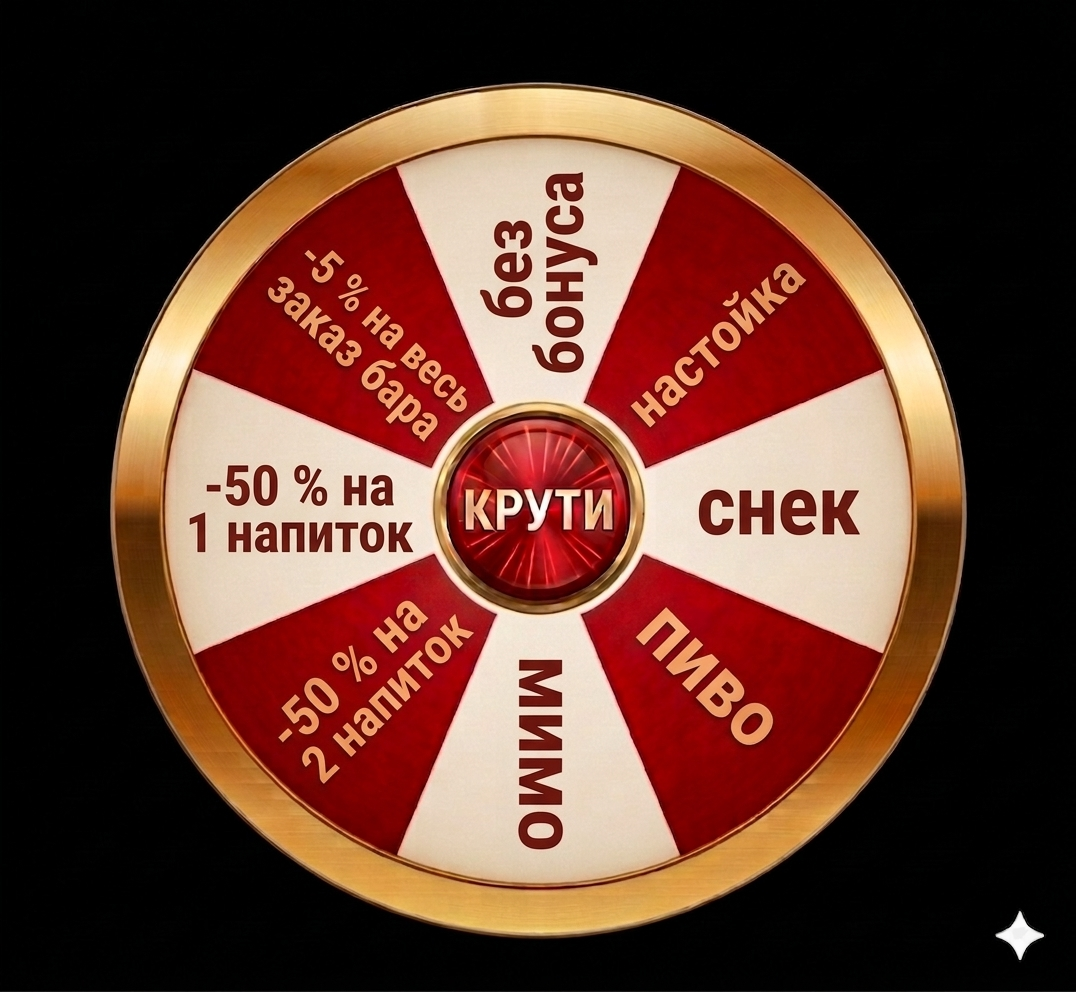
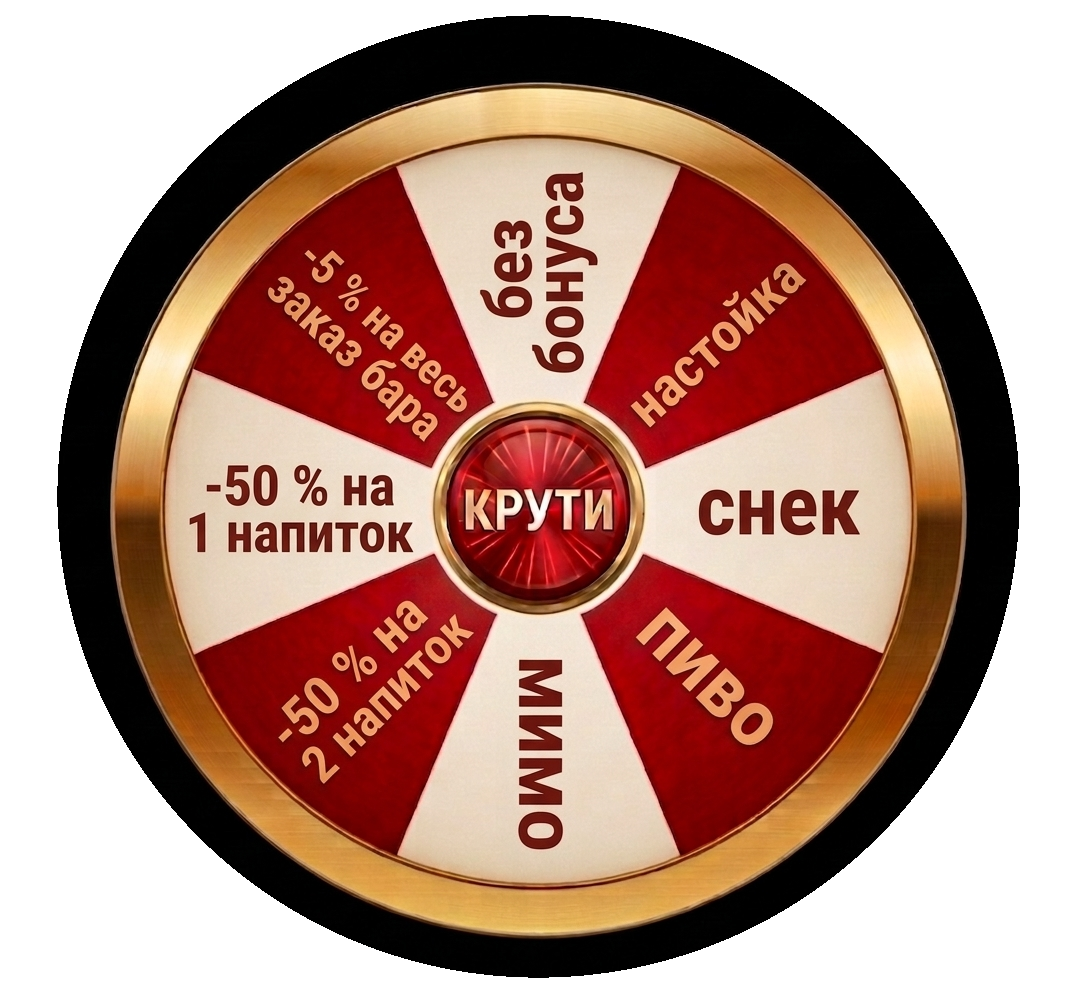
Remove faint square background around fortune wheel assets and FAB.
Mask wheel PNGs to the circle, drop semi-transparent FAB backdrop and popup wheel plate.

diff --git a/src/components/LuckyWheelButton.tsx b/src/components/LuckyWheelButton.tsx
@@ -35,7 +35,6 @@ export function LuckyWheelButton({ onClick, hasBonus, remainingTime }: Props) {
           ? "var(--fab-bottom-nav-stack-ribbon)"
           : "var(--fab-bottom-nav-stack)",
         right: "max(16px, env(safe-area-inset-right, 0px) + 16px)",
-        boxShadow: "0 4px 20px rgba(0,0,0,0.3)",
       }}
       aria-label={
         hasBonus
@@ -49,9 +48,7 @@ export function LuckyWheelButton({ onClick, hasBonus, remainingTime }: Props) {
         <div className="relative h-16 w-16 max-h-[64px] max-w-[64px] shrink-0 overflow-visible">
           <span
             className={`relative flex h-full w-full items-center justify-center overflow-hidden rounded-full ${
-              hasBonus
-                ? "bg-[#2a0a0f] ring-2 ring-amber-400/55"
-                : "bg-black/20 ring-1 ring-amber-500/40"
+              hasBonus ? "ring-2 ring-amber-400/55" : "ring-1 ring-amber-500/40"
             }`}
           >
             {!showFallbackGradient ? (

diff --git a/src/components/WheelOfFortune.tsx b/src/components/WheelOfFortune.tsx
@@ -139,12 +139,9 @@ export function WheelOfFortune({
           maxWidth: "100%",
         }}
       >
-        {/* Круг: обрезка по окружности — колесо не «выкатывается» за край */}
+        {/* Круг: обрезка по окружности — без отдельной подложки за PNG */}
         <div
-          className="relative isolate z-10 flex h-full w-full shrink-0 items-center justify-center overflow-hidden rounded-full bg-[#0a0a0a] ring-1 ring-white/10"
-          style={{
-            boxShadow: "0 12px 48px rgba(0,0,0,0.45)",
-          }}
+          className="relative isolate z-10 flex h-full w-full shrink-0 items-center justify-center overflow-hidden rounded-full"
         >
           {/* Лёгкое покачивание до спина; вращение спина внутри, относительно центра */}
           <motion.div
